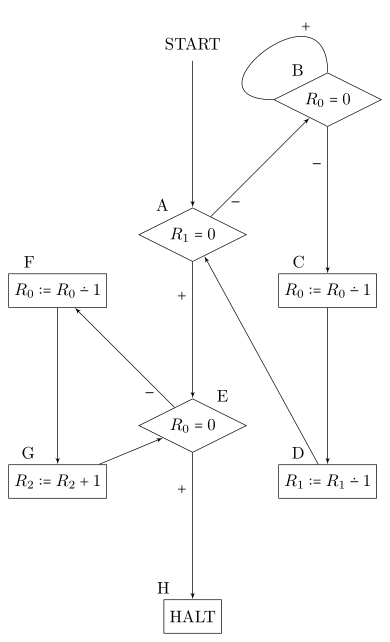
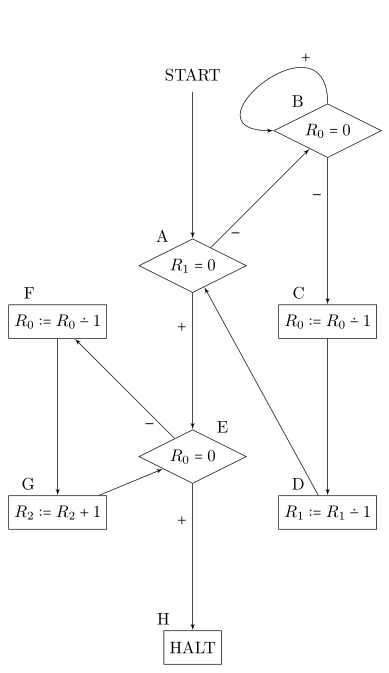
fixing an arrow

diff --git a/flussdiagramm.tex b/flussdiagramm.tex
@@ -45,7 +45,7 @@
 \path[line] (start) -- (a);
 \path[line] (a) -- node [near start, left] {$+$} (e);
 \path[line] (a) -- node [near start, below] {$-$} (b);
-\draw[-] (b) to [out=90,in=180,loop,looseness=4] node [near start, above] {$+$} (b);
+\draw[-latex'] (b) to [out=90,in=180,loop,looseness=4] node [near start, above] {$+$} (b);
 \path[line] (b) -- node [near start, left] {$-$} (c);
 \path[line] (c) -- (d);
 \path[line] (d) -- (a);
